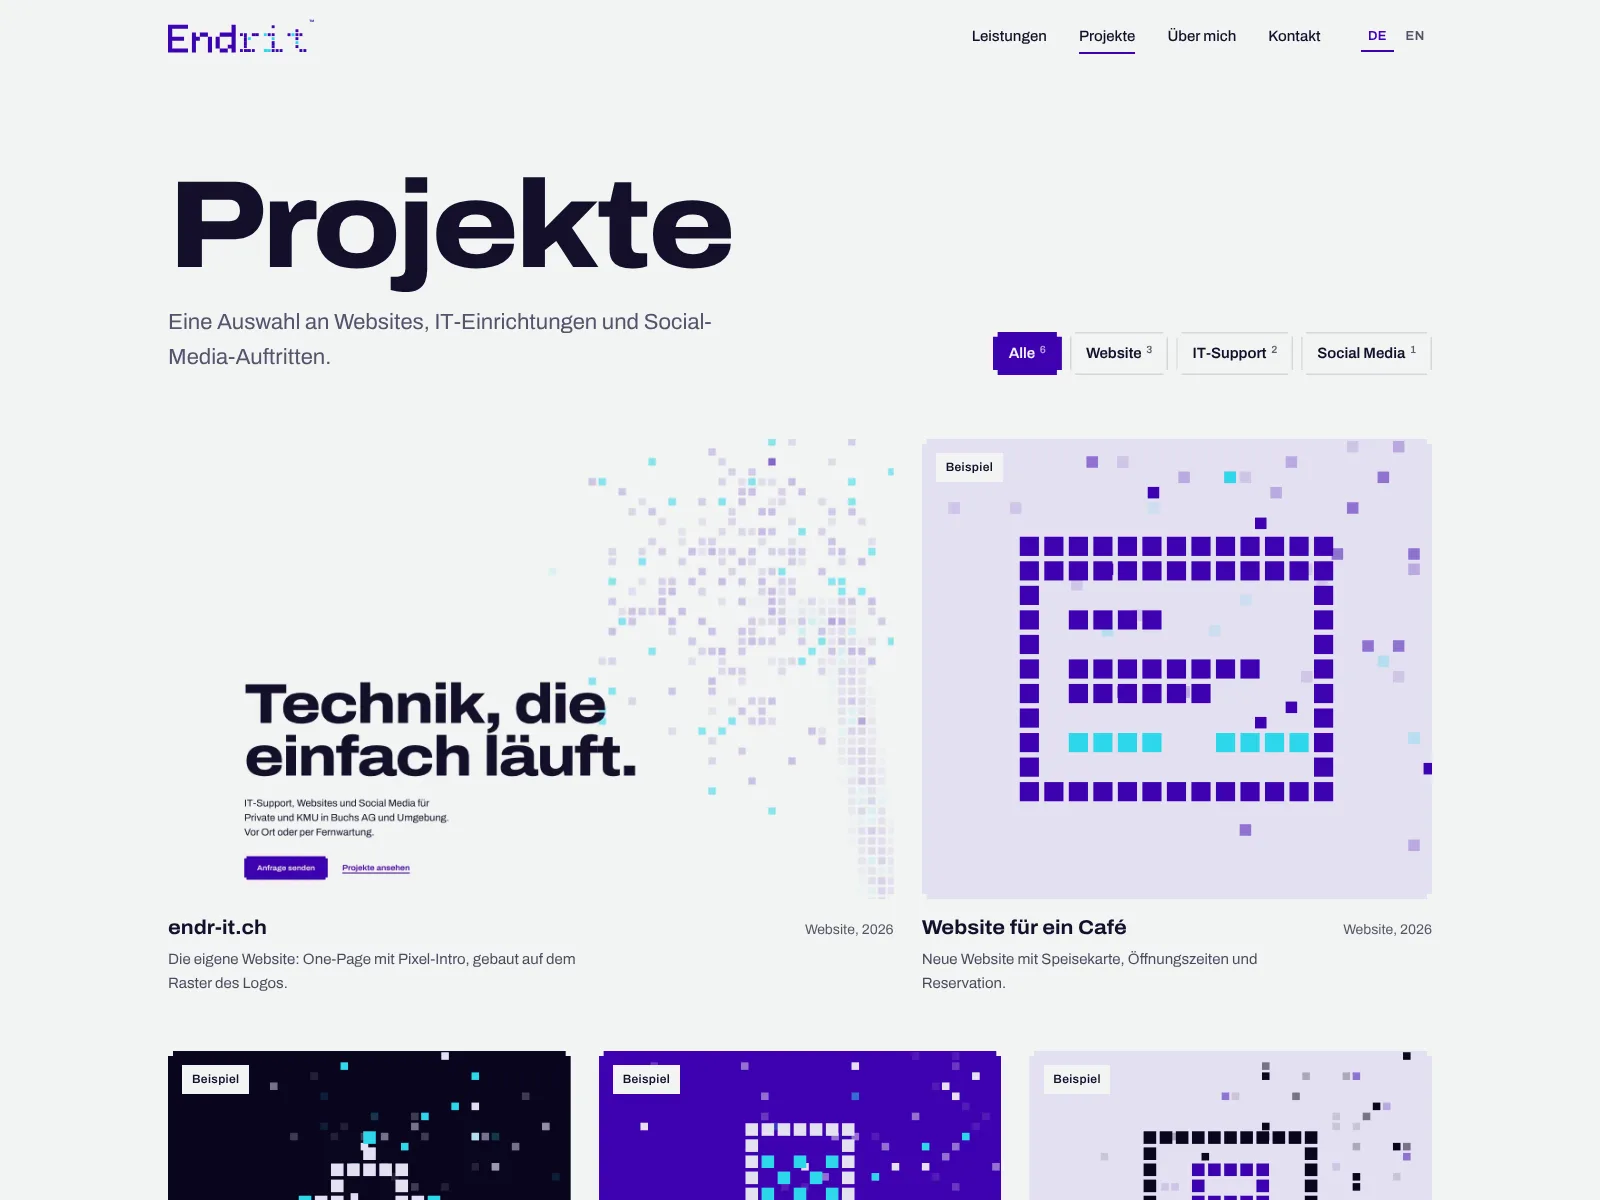
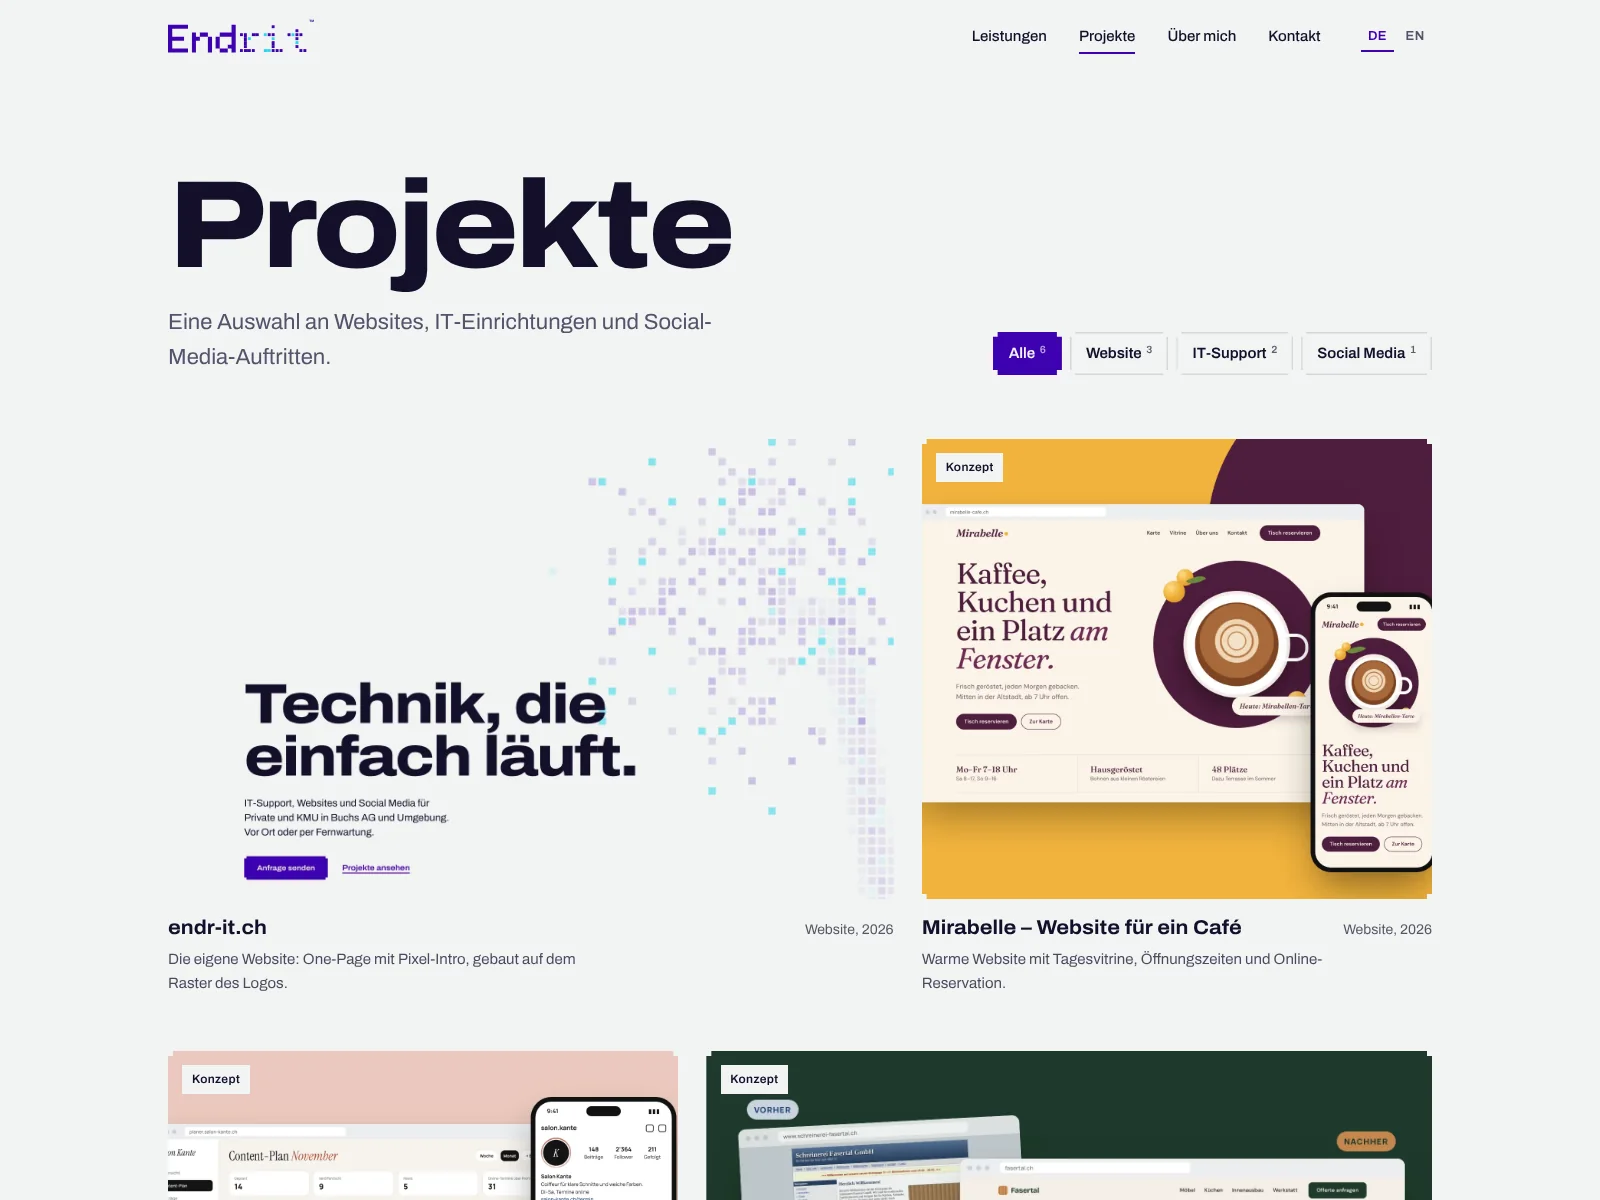
Konzeptprojekte mit eigenen Projektbildern
Fünf fiktive Marken (Mirabelle, Salon Kante, Fasertal, Linea, Nordlicht) mit
gestalteten Websites, Social-Media-Profil und IT-Dashboards als Projektbilder.
Etikett "Konzept" statt "Beispiel". Raster ohne Einzelkarte am Schluss,
Detailansicht zeigt Bilder vollständig, versteckte Buttons bleiben versteckt.

Claude-Session: https://claude.ai/code/session_01Ju4549jem2Z4hGAeg3gpoB

Changed region(s): [[0.5625, 0.3392, 0.9062, 0.8017], [0.0938, 0.8633, 0.9062, 1.0]]

diff --git a/js/projects.js b/js/projects.js
@@ -6,7 +6,7 @@
    category:  "web" | "it" | "social"
    featured:  true  = wird im Raster gross dargestellt und auf der Startseite gezeigt
    en:        optional, englische Texte (sonst wird Deutsch angezeigt)
-   example:   true  = Beispielprojekt (zeigt ein Etikett). Löschen, sobald echte Projekte drin sind.
+   example:   true  = Konzeptprojekt mit fiktiver Marke (zeigt das Etikett „Konzept“)
    ========================================================================== */
 window.PROJECTS = [
   {
@@ -28,76 +28,95 @@ window.PROJECTS = [
     }
   },
   {
-    id: 'beispiel-web',
+    id: 'mirabelle',
     example: true,
-    title: 'Website für ein Café',
-    client: 'Beispielkunde',
+    title: 'Mirabelle – Website für ein Café',
+    client: 'Mirabelle Kaffee & Kuchen (fiktive Marke)',
     year: 2026,
     category: 'web',
     featured: true,
-    cover: 'assets/projekte/beispiel-web.svg',
-    images: ['assets/projekte/beispiel-web.svg'],
-    summary: 'Neue Website mit Speisekarte, Öffnungszeiten und Reservation.',
-    text: 'Hier stehen zwei, drei Sätze zum Projekt: Was war die Ausgangslage, was hast du gemacht, was hat es gebracht?',
-    tags: ['Webdesign', 'SEO'],
-    link: '',
-    en: { title: 'Website for a café', summary: 'New website with menu, opening hours and reservations.' }
+    cover: 'assets/projekte/mirabelle-1.webp',
+    images: ['assets/projekte/mirabelle-1.webp', 'assets/projekte/mirabelle-2.webp', 'assets/projekte/mirabelle-3.webp'],
+    summary: 'Warme Website mit Tagesvitrine, Öffnungszeiten und Online-Reservation.',
+    text: 'Konzept für ein Café in der Altstadt: Die Startseite zeigt sofort, was heute in der Vitrine steht und wann offen ist. Reservieren geht in drei Klicks, auf dem Handy genauso wie am Computer.\n\nMarke, Farben und Illustrationen sind eigens für dieses Konzept entstanden.',
+    tags: ['Webdesign', 'Branding', 'Reservation'],
+    en: {
+      title: 'Mirabelle – website for a café',
+      summary: 'A warm website with a daily display case, opening hours and online booking.',
+      text: 'Concept for an old-town café: the home page shows right away what is in the display case today and when it is open. Booking a table takes three clicks, on a phone or a computer.\n\nBrand, colours and illustrations were created for this concept.'
+    }
   },
   {
-    id: 'beispiel-netzwerk',
+    id: 'salon-kante',
     example: true,
-    title: 'Netzwerk und WLAN für ein Büro',
-    client: 'Beispielkunde',
+    title: 'Salon Kante – Social-Media-Auftritt',
+    client: 'Salon Kante (fiktive Marke)',
     year: 2026,
-    category: 'it',
-    cover: 'assets/projekte/beispiel-netzwerk.svg',
-    images: ['assets/projekte/beispiel-netzwerk.svg'],
-    summary: 'Stabiles WLAN in allen Räumen, Gästenetz getrennt.',
-    text: 'Hier stehen zwei, drei Sätze zum Projekt.',
-    tags: ['Netzwerk', 'WLAN'],
-    en: { title: 'Network and Wi-Fi for an office', summary: 'Reliable Wi-Fi in every room, separate guest network.' }
-  },
-  {
-    id: 'beispiel-social',
-    example: true,
-    title: 'Instagram-Auftritt für einen Coiffeur',
-    client: 'Beispielkunde',
-    year: 2025,
     category: 'social',
     featured: true,
-    cover: 'assets/projekte/beispiel-social.svg',
-    images: ['assets/projekte/beispiel-social.svg'],
-    summary: 'Profil neu aufgesetzt, Posts geplant und laufend betreut.',
-    text: 'Hier stehen zwei, drei Sätze zum Projekt.',
-    tags: ['Instagram', 'Content'],
-    en: { title: 'Instagram presence for a hair salon', summary: 'Profile rebuilt, posts planned and managed.' }
+    cover: 'assets/projekte/kante-1.webp',
+    images: ['assets/projekte/kante-1.webp', 'assets/projekte/kante-2.webp'],
+    summary: 'Einheitliches Profil, gestaltete Beiträge und ein Content-Plan für den ganzen Monat.',
+    text: 'Konzept für einen Coiffeur: klare Bildsprache mit wenigen Farben, wiederkehrende Formate (Vorher/Nachher, Preise, Pflege-Tipps) und ein Monatsplan, damit jede Woche etwas erscheint. Termine lassen sich direkt über das Profil buchen.',
+    tags: ['Instagram', 'Content-Plan', 'Gestaltung'],
+    en: {
+      title: 'Salon Kante – social media presence',
+      summary: 'A consistent profile, designed posts and a content plan for the whole month.',
+      text: 'Concept for a hair salon: a clear visual language with few colours, recurring formats (before/after, prices, care tips) and a monthly plan so something goes out every week. Appointments can be booked straight from the profile.'
+    }
   },
   {
-    id: 'beispiel-it',
+    id: 'fasertal',
     example: true,
-    title: 'Arbeitsplätze für ein Treuhandbüro',
-    client: 'Beispielkunde',
-    year: 2025,
-    category: 'it',
-    cover: 'assets/projekte/beispiel-it.svg',
-    images: ['assets/projekte/beispiel-it.svg'],
-    summary: 'Vier PCs eingerichtet, Backups automatisiert.',
-    text: 'Hier stehen zwei, drei Sätze zum Projekt.',
-    tags: ['Einrichtung', 'Backup'],
-    en: { title: 'Workstations for an accounting firm', summary: 'Four PCs set up, backups automated.' }
-  },
-  {
-    id: 'beispiel-redesign',
-    example: true,
-    title: 'Redesign für einen Handwerksbetrieb',
-    client: 'Beispielkunde',
+    title: 'Fasertal – Redesign für eine Schreinerei',
+    client: 'Schreinerei Fasertal (fiktive Marke)',
     year: 2025,
     category: 'web',
-    cover: 'assets/projekte/beispiel-redesign.svg',
-    images: ['assets/projekte/beispiel-redesign.svg'],
-    summary: 'Alte Website modernisiert, Ladezeit stark verkürzt.',
-    text: 'Hier stehen zwei, drei Sätze zum Projekt.',
-    tags: ['Redesign', 'Performance'],
-    en: { title: 'Redesign for a trades business', summary: 'Old website modernised, much faster to load.' }
+    cover: 'assets/projekte/fasertal-1.webp',
+    images: ['assets/projekte/fasertal-1.webp', 'assets/projekte/fasertal-2.webp'],
+    summary: 'Aus einer Homepage von 2008 wird eine schnelle, moderne Website.',
+    text: 'Konzept: Die alte Seite war unübersichtlich und auf dem Handy kaum lesbar. Die neue Seite sagt in einem Satz, was die Schreinerei macht, und führt direkt zur Offerte. Weniger Text, klare Bereiche, schnell geladen.',
+    tags: ['Redesign', 'Webdesign', 'Mobile'],
+    en: {
+      title: 'Fasertal – redesign for a joinery',
+      summary: 'A 2008 homepage turned into a fast, modern website.',
+      text: 'Concept: the old site was cluttered and barely readable on a phone. The new one says in one sentence what the joinery does and leads straight to a quote request. Less text, clear sections, fast to load.'
+    }
+  },
+  {
+    id: 'linea',
+    example: true,
+    title: 'Netzwerk und WLAN für ein Architekturbüro',
+    client: 'Architekturbüro Linea (fiktive Marke)',
+    year: 2025,
+    category: 'it',
+    cover: 'assets/projekte/linea-1.webp',
+    images: ['assets/projekte/linea-1.webp'],
+    summary: 'Drei Access Points, volle Abdeckung, Gästenetz und Drucker sauber getrennt.',
+    text: 'Konzept: WLAN-Löcher im Atelier und ein Gästenetz, das im gleichen Netz wie der Server hing. Lösung mit drei Access Points, getrennten Netzen für Büro, Gäste und Geräte und einer Übersicht, die jederzeit zeigt, ob alles läuft.',
+    tags: ['Netzwerk', 'WLAN', 'Sicherheit'],
+    en: {
+      title: 'Network and Wi-Fi for an architecture office',
+      summary: 'Three access points, full coverage, guest network and printers properly separated.',
+      text: 'Concept: Wi-Fi dead spots in the studio and a guest network sharing the server network. Solved with three access points, separate networks for office, guests and devices, and an overview that shows at any time whether everything is running.'
+    }
+  },
+  {
+    id: 'nordlicht',
+    example: true,
+    title: 'Arbeitsplätze und Backup für ein Treuhandbüro',
+    client: 'Treuhand Nordlicht (fiktive Marke)',
+    year: 2025,
+    category: 'it',
+    cover: 'assets/projekte/nordlicht-1.webp',
+    images: ['assets/projekte/nordlicht-1.webp'],
+    summary: 'Vier Geräte eingerichtet, verschlüsselt und jede Nacht automatisch gesichert.',
+    text: 'Konzept: Neue Arbeitsplätze, alle auf dem gleichen Stand, mit automatischen Updates und nächtlichem Backup aufs NAS und zusätzlich in eine Schweizer Cloud. Eine Test-Wiederherstellung zeigt, dass die Sicherung im Ernstfall auch funktioniert.',
+    tags: ['Einrichtung', 'Backup', 'Updates'],
+    en: {
+      title: 'Workstations and backup for an accounting firm',
+      summary: 'Four devices set up, encrypted and backed up automatically every night.',
+      text: 'Concept: new workstations, all on the same level, with automatic updates and nightly backups to a NAS plus a Swiss cloud. A test restore proves the backup actually works when it counts.'
+    }
   }
 ];

diff --git a/js/i18n.js b/js/i18n.js
@@ -41,7 +41,7 @@ window.I18N = (() => {
       pfTitle: 'Projekte', pfLead: 'Eine Auswahl an Websites, IT-Einrichtungen und Social-Media-Auftritten.',
       fAll: 'Alle', pfEmpty: 'In dieser Kategorie ist noch nichts online. Schau bald wieder vorbei.',
       pfCta: 'Dein Projekt als nächstes?', close: 'Schliessen', visit: 'Projekt ansehen',
-      example: 'Beispiel', client: 'Kunde', year: 'Jahr', service: 'Leistung', open: 'Details',
+      example: 'Konzept', client: 'Kunde', year: 'Jahr', service: 'Leistung', open: 'Details',
       cat: { web: 'Website', it: 'IT-Support', social: 'Social Media' }
     },
     en: {
@@ -84,7 +84,7 @@ window.I18N = (() => {
       pfTitle: 'Projects', pfLead: 'A selection of websites, IT setups and social media work.',
       fAll: 'All', pfEmpty: 'Nothing online in this category yet. Check back soon.',
       pfCta: 'Your project next?', close: 'Close', visit: 'View project',
-      example: 'Example', client: 'Client', year: 'Year', service: 'Service', open: 'Details',
+      example: 'Concept', client: 'Client', year: 'Year', service: 'Service', open: 'Details',
       cat: { web: 'Website', it: 'IT support', social: 'Social media' }
     }
   };

diff --git a/css/style.css b/css/style.css
@@ -58,6 +58,7 @@
 }
 
 /* ---------- Basis ---------- */
+[hidden] { display: none !important; }
 *, *::before, *::after { box-sizing: border-box; }
 html { -webkit-text-size-adjust: 100%; scroll-padding-top: var(--header-h); }
 html.lenis, html.lenis body { height: auto; }
@@ -425,7 +426,8 @@ html:not(.js) .band__list { flex-wrap: wrap; row-gap: 1rem; padding-inline: var(
 }
 .sheet__close:hover { background: var(--violet); color: var(--paper); }
 .sheet__media { margin: 0; background: var(--paper-2); grid-row: span 2; }
-.sheet__media img { width: 100%; height: 100%; object-fit: cover; min-height: 320px; }
+.sheet__media { display: grid; place-items: center; }
+.sheet__media img { width: 100%; height: auto; object-fit: contain; }
 .sheet__thumbs { display: none; }
 .sheet__thumbs.has-many { display: flex; gap: .5rem; padding: 1rem 1.5rem 0; grid-column: 2; }
 .sheet__thumbs button { width: 64px; height: 48px; padding: 0; border: 0; cursor: pointer; background: var(--paper-2); opacity: .55; transition: opacity .2s ease; }

diff --git a/js/portfolio.js b/js/portfolio.js
@@ -19,6 +19,7 @@
       let row = ROWS[r % ROWS.length];
       const left = list.length - i;
       if (left < row.length) row = left === 1 ? ['is-full'] : ['is-wide', 'is-mid']; // Reste sauber füllen
+      else if (row.length === 3 && left === 4) row = ['is-mid', 'is-wide'];               // nie ein Einzelner am Schluss
       row.forEach(cls => { if (i < list.length) out.push([list[i++], cls]); });
       r++;
     }

diff --git a/README.md b/README.md
@@ -21,9 +21,11 @@ Anfragen gehen wie bisher über FormSubmit an info@endr-it.ch. Beim Senden öffn
 Captcha von FormSubmit; danach erhält der Kunde automatisch eine Eingangsbestätigung.
 `gesendet.html` meldet der Seite, dass die Anfrage angekommen ist (nicht löschen).
 
-## Noch zu tun
+## Konzeptprojekte
 
-- **Beispielprojekte** in `js/projects.js` durch echte ersetzen (siehe unten).
+Fünf Projekte sind Konzepte mit fiktiven Marken (Mirabelle, Salon Kante, Fasertal, Linea, Nordlicht).
+Sie tragen das Etikett „Konzept“ (`example: true` in `js/projects.js`). Echte Kundenprojekte ohne dieses Feld eintragen.
+Die Vorlagen der Konzepte liegen nicht auf der Website, nur die fertigen Bilder in `assets/projekte/`.
 
 ## Neues Projekt eintragen
 
